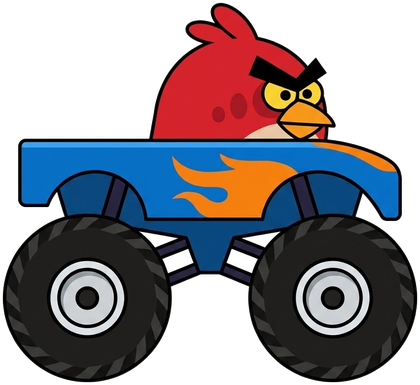
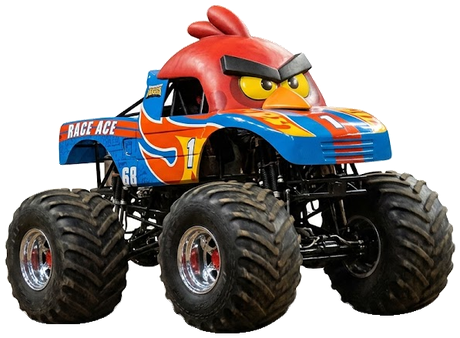
Invitados con su cara de verdad, el juego llena la pantalla y tu equipo manda
- Los invitados salen ahora de la imagen ORIGINAL, solo quitando el fondo con rembg
  (herramientas/invitados.py + recorta_fiel.py). Rayo Veloz vuelve a llevar su 95,
  las llamas, el alerón y la rueda; Race Ace es el camión de verdad; Lemi, Grizzy,
  Tomás y el Cerdi-Coche igual. Gemini los redibujaba "simplificados" y les quitaba
  la identidad; eso queda solo como modo alternativo.
- El juego LLENA la pantalla: se ajusta al ancho, el suelo pegado abajo y el cielo se
  estira; se acabaron las barras azules a los lados. Nunca recorta el tirachinas ni
  las torres (mínimo 620 px de mundo a la vista).
- Si eliges equipo en el botón de pájaros, ese equipo manda también en los 30 niveles
  (con "Vaciar" se vuelve a los pájaros que trae cada nivel).

diff --git a/index.html b/index.html
@@ -632,12 +632,18 @@ function musicaEnciende(){
 const cv = document.getElementById('c');
 let ctx = cv.getContext('2d');
 const vista = { esc:1, ox:0, oy:0 };
+const MUNDO_MIN = 620;                 // mundo que hay que ver de alto como mínimo
 function medir(){
   const r = cv.getBoundingClientRect(), dpr = Math.min(window.devicePixelRatio||1, 2);
   cv.width = Math.max(1,Math.round(r.width*dpr));
   cv.height= Math.max(1,Math.round(r.height*dpr));
-  const e = Math.min(cv.width/W, cv.height/H);
-  vista.esc = e; vista.ox = (cv.width-W*e)/2; vista.oy = (cv.height-H*e)/2;
+  // El juego llena TODA la pantalla: se ajusta al ancho y, si el alto no da,
+  // se recorta cielo por arriba (nunca el suelo, ni el tirachinas, ni las torres).
+  let e = cv.width / W;
+  if(cv.height/e < MUNDO_MIN) e = cv.height / MUNDO_MIN;
+  vista.esc = e;
+  vista.ox = (cv.width - W*e)/2;
+  vista.oy = cv.height - H*e;          // el suelo, siempre pegado abajo
 }
 window.addEventListener('resize', medir);
 function aMundo(ev){
@@ -741,9 +747,13 @@ function todosLosIds(){ return ORDEN_AVES.concat(Object.keys(EXTRA)); }
 const nubes = [{x:250,y:130,s:1.2},{x:820,y:90,s:.9},{x:1320,y:170,s:1.1},{x:1080,y:250,s:.7}];
 
 function fondo(){
-  const g = ctx.createLinearGradient(0,0,0,SUELO);
+  // el cielo se estira hasta donde haga falta para tapar toda la pantalla
+  const arriba = Math.min(0, -vista.oy/vista.esc) - 20;
+  const izq = Math.min(0, -vista.ox/vista.esc) - 20;
+  const ancho = W - izq*2;
+  const g = ctx.createLinearGradient(0,arriba,0,SUELO);
   g.addColorStop(0,'#5fb8ea'); g.addColorStop(.6,'#a8ddf5'); g.addColorStop(1,'#dff3fb');
-  ctx.fillStyle=g; ctx.fillRect(0,0,W,SUELO+4);
+  ctx.fillStyle=g; ctx.fillRect(izq,arriba,ancho,SUELO+4-arriba);
   ctx.save(); ctx.translate(1430,110);
   ctx.fillStyle='rgba(255,240,150,.35)'; ctx.beginPath(); ctx.arc(0,0,96,0,7); ctx.fill();
   ctx.fillStyle='#ffdf4d'; ctx.beginPath(); ctx.arc(0,0,58,0,7); ctx.fill();
@@ -766,13 +776,14 @@ function fondo(){
 }
 
 function suelo(){
-  ctx.fillStyle='#a06b32'; ctx.fillRect(0,SUELO,W,H-SUELO);
+  const izq = Math.min(0, -vista.ox/vista.esc) - 20, ancho = W - izq*2;
+  ctx.fillStyle='#a06b32'; ctx.fillRect(izq,SUELO,ancho,H-SUELO+400);
   ctx.fillStyle='#8a5a2b';
   for(let i=0;i<70;i++){ const x=(i*97)%W, y=SUELO+26+((i*53)%70);
     ctx.beginPath(); ctx.ellipse(x,y,13,7,0,0,7); ctx.fill(); }
-  ctx.fillStyle='#5fbe36'; ctx.fillRect(0,SUELO,W,20);
+  ctx.fillStyle='#5fbe36'; ctx.fillRect(izq,SUELO,ancho,20);
   ctx.fillStyle='#79d94c';
-  for(let x=0;x<W;x+=22){ ctx.beginPath(); ctx.moveTo(x,SUELO);
+  for(let x=izq;x<izq+ancho;x+=22){ ctx.beginPath(); ctx.moveTo(x,SUELO);
     ctx.quadraticCurveTo(x+6,SUELO-15,x+13,SUELO); ctx.fill(); }
 }
 
@@ -1720,7 +1731,9 @@ function juegaNivel(n){
   const niv = NIVELES[n-1]; if(!niv) return;
   S.nivel = n;
   S.piezas = JSON.parse(JSON.stringify(niv.piezas));
-  S.equipo = niv.equipo.filter(id=>AVES[id]||EXTRA[id]).slice(0,MAX_EQUIPO);
+  if(!S.equipoElegido || !S.equipo.length){
+    S.equipo = niv.equipo.filter(id=>AVES[id]||EXTRA[id]).slice(0,MAX_EQUIPO);
+  }
   if(!S.equipo.length) S.equipo=['rojo','rojo','rojo'];
   S.historial=[];
   S.modo='construir';                       // fuerza el rearranque limpio
@@ -1752,12 +1765,17 @@ function pintaAveEn(c,id){
     a.img.addEventListener('load', ()=>{ try{ pintaAveEn(c,id); }catch(e){} }, {once:true});
   }
 }
-function guardaEquipo(){
-  try{ localStorage.setItem('pajaros-locos-equipo', JSON.stringify(S.equipo)); }catch(e){}
+function guardaEquipo(elegido){
+  if(elegido) S.equipoElegido = true;
+  try{
+    localStorage.setItem('pajaros-locos-equipo', JSON.stringify(S.equipo));
+    localStorage.setItem('pajaros-locos-equipo-elegido', S.equipoElegido?'1':'');
+  }catch(e){}
 }
 function cargaEquipo(){
   try{ const j=JSON.parse(localStorage.getItem('pajaros-locos-equipo')||'null');
-       if(Array.isArray(j) && j.length) S.equipo=j.slice(0,MAX_EQUIPO); }catch(e){}
+       if(Array.isArray(j) && j.length) S.equipo=j.slice(0,MAX_EQUIPO);
+       S.equipoElegido = localStorage.getItem('pajaros-locos-equipo-elegido')==='1'; }catch(e){}
 }
 function pintaEquipo(){
   const e=document.getElementById('equipo'); e.innerHTML='';
@@ -1768,7 +1786,7 @@ function pintaEquipo(){
     if(id){
       b.appendChild(miniAve(id,60));
       b.title = getAve(id).nombre;
-      b.onclick=()=>{ S.equipo.splice(i,1); guardaEquipo(); pintaEquipo(); pintaListaAves(); refrescaMarcador(true); SFX.borrar(); };
+      b.onclick=()=>{ S.equipo.splice(i,1); guardaEquipo(true); pintaEquipo(); pintaListaAves(); refrescaMarcador(true); SFX.borrar(); };
     } else {
       b.textContent='+';
       b.onclick=()=>aviso('Toca un pájaro de abajo 👇');
@@ -1778,7 +1796,7 @@ function pintaEquipo(){
 }
 function añadeAve(id){
   if(S.equipo.length>=MAX_EQUIPO){ aviso('¡El tirachinas está lleno!'); SFX.borrar(); return; }
-  S.equipo.push(id); guardaEquipo(); pintaEquipo(); pintaListaAves(); refrescaMarcador(true); SFX.poner();
+  S.equipo.push(id); guardaEquipo(true); pintaEquipo(); pintaListaAves(); refrescaMarcador(true); SFX.poner();
 }
 function pintaListaAves(){
   const L=document.getElementById('listaAves'); if(!L) return;
@@ -1817,16 +1835,16 @@ document.getElementById('avesAzar').onclick=()=>{
   const ids=todosLosIds(); S.equipo=[];
   const n=Math.min(5,ids.length);
   for(let i=0;i<n;i++) S.equipo.push(ids[Math.floor(Math.random()*ids.length)]);
-  guardaEquipo(); pintaEquipo(); pintaListaAves(); refrescaMarcador(true); SFX.poner();
+  guardaEquipo(true); pintaEquipo(); pintaListaAves(); refrescaMarcador(true); SFX.poner();
 };
 document.getElementById('avesVariado').onclick=()=>{
   const ids=todosLosIds(); S.equipo=[];
   const salto=Math.max(1,Math.floor(ids.length/MAX_EQUIPO));
   for(let i=0;i<ids.length && S.equipo.length<MAX_EQUIPO;i+=salto) S.equipo.push(ids[i]);
-  guardaEquipo(); pintaEquipo(); pintaListaAves(); refrescaMarcador(true); SFX.poner();
+  guardaEquipo(true); pintaEquipo(); pintaListaAves(); refrescaMarcador(true); SFX.poner();
 };
 document.getElementById('avesVacia').onclick=()=>{
-  S.equipo=[]; guardaEquipo(); pintaEquipo(); pintaListaAves(); refrescaMarcador(true); SFX.borrar();
+  S.equipo=[]; S.equipoElegido=false; guardaEquipo(); pintaEquipo(); pintaListaAves(); refrescaMarcador(true); SFX.borrar();
 };
 
 /* ---------- invitados: los pájaros recortados que hay en pajaros/ ---------- */
@@ -2049,7 +2067,7 @@ document.getElementById('btnGuardarPajaro').onclick = ()=>{
   MI.temp=null; MI.fuente=null;
   guardaMisPajaros(); regDibujos();
   const id='dib'+(MI.lista.length-1);
-  if(S.equipo.length<MAX_EQUIPO && S.equipo.indexOf(id)<0){ S.equipo.push(id); guardaEquipo(); }
+  if(S.equipo.length<MAX_EQUIPO && S.equipo.indexOf(id)<0){ S.equipo.push(id); guardaEquipo(true); }
   pintaGaleria(); pintaEquipo(); refrescaMarcador(true);
   elPaso2.classList.add('oculto'); elPaso1.classList.remove('oculto');
   SFX.gana(); aviso('🐦 ¡Tu pájaro ya vuela!');

diff --git a/herramientas/invitados.py b/herramientas/invitados.py
@@ -1,0 +1,98 @@
+"""Convierte las imagenes de `imagenes/` en pajaros jugables.
+
+Coge el personaje ORIGINAL tal cual (nada de redibujarlo), le quita el fondo
+con rembg, lo recorta y lo apunta en `pajaros/pajaros.json`, que el juego lee
+al arrancar. O sea: los pajaros se meten solos.
+
+    python herramientas/invitados.py            # todos
+    python herramientas/invitados.py tomas      # solo uno
+"""
+
+import json
+import os
+import sys
+
+sys.path.insert(0, os.path.dirname(os.path.abspath(__file__)))
+from recorta_fiel import recorta_fiel  # noqa: E402
+
+RAIZ = os.path.dirname(os.path.dirname(os.path.abspath(__file__)))
+
+# caja = (x1,y1,x2,y2) en tanto por uno, para sacar un personaje de una lamina con varios
+# voltea = el dibujo mira a la izquierda y en el juego se vuela hacia la derecha
+INVITADOS = [
+    dict(id="tomas", nombre="Tomás", origen="imagenes/2e764147-039a-410d-9c11-e2165bb56a46.png",
+         poder="tren", r=31, dens=0.0062, pot=1.40, voltea=True),
+    dict(id="rayoveloz", nombre="Rayo Veloz", origen="imagenes/77a6012e-7d29-4644-ba35-d2a9a5e30d0f.png",
+         poder="turbo", r=30, dens=0.0058, pot=1.35, voltea=True),
+    dict(id="lemi", nombre="Lemi", origen="imagenes/b2da60d4-97fb-40ca-9334-0e6acc032bc1.png",
+         caja=(0.34, 0.28, 0.64, 0.88), poder="tropa", r=31, dens=0.0060, pot=1.20, voltea=False),
+    dict(id="grizzy", nombre="Grizzy", origen="imagenes/b2da60d4-97fb-40ca-9334-0e6acc032bc1.png",
+         caja=(0.70, 0.42, 0.94, 0.90), poder="zarpazo", r=34, dens=0.0072, pot=1.60, voltea=True),
+    dict(id="camion", nombre="Race Ace", origen="imagenes/53004e2e-0c62-447f-bd5a-ac64115b2cea.jpg",
+         poder="ruedas", r=38, dens=0.0085, pot=2.00, voltea=True),
+    dict(id="cerdicoche", nombre="Cerdi-Coche", origen="imagenes/2d2d3444-f818-48f1-8f9a-73e9a64aac82.png",
+         poder="ruedas", r=40, dens=0.0080, pot=1.80, voltea=False, cerdo=True),
+]
+
+MANIFIESTO = os.path.join(RAIZ, "pajaros", "pajaros.json")
+
+
+def manifiesto():
+    try:
+        with open(MANIFIESTO, encoding="utf-8") as f:
+            j = json.load(f)
+        if not isinstance(j.get("pajaros"), list):
+            j["pajaros"] = []
+        return j
+    except Exception:
+        return {"version": 1, "pajaros": []}
+
+
+def apunta(inv, tam):
+    j = manifiesto()
+    fila = {
+        "id": inv["id"],
+        "nombre": inv["nombre"],
+        "serie": inv.get("serie", "Invitados"),
+        "archivo": f"{inv['id']}.png",
+        "poder": inv["poder"],
+        "r": inv.get("r", 30),
+        "dens": inv.get("dens", 0.005),
+        "pot": inv.get("pot", 1),
+        "cerdo": bool(inv.get("cerdo")),
+        "voltea": bool(inv.get("voltea")),
+        "ancho": tam[0],
+        "alto": tam[1],
+    }
+    for i, p in enumerate(j["pajaros"]):
+        if p.get("id") == fila["id"]:
+            j["pajaros"][i] = fila
+            break
+    else:
+        j["pajaros"].append(fila)
+    os.makedirs(os.path.dirname(MANIFIESTO), exist_ok=True)
+    with open(MANIFIESTO, "w", encoding="utf-8") as f:
+        json.dump(j, f, ensure_ascii=False, indent=2)
+        f.write("\n")
+    return fila
+
+
+def main():
+    quiero = set(a for a in sys.argv[1:] if not a.startswith("-"))
+    os.makedirs(os.path.join(RAIZ, "pajaros"), exist_ok=True)
+    for inv in INVITADOS:
+        if quiero and inv["id"] not in quiero:
+            continue
+        entrada = os.path.join(RAIZ, inv["origen"])
+        salida = os.path.join(RAIZ, "pajaros", f"{inv['id']}.png")
+        if not os.path.exists(entrada):
+            print(f"[falta] {inv['id']}: no encuentro {inv['origen']}")
+            continue
+        tam = recorta_fiel(entrada, salida, caja=inv.get("caja"), lado=460)
+        fila = apunta(inv, tam)
+        print(f"[ok] {fila['nombre']} -> pajaros/{fila['archivo']} ({tam[0]}x{tam[1]}) poder={fila['poder']}")
+    print("[fin] pajaros/pajaros.json actualizado")
+
+
+if __name__ == "__main__":
+    main()

diff --git a/herramientas/recorta_fiel.py b/herramientas/recorta_fiel.py
@@ -1,0 +1,106 @@
+"""Recorta el personaje de una imagen ORIGINAL y le quita el fondo, sin redibujar nada.
+
+Usa rembg (U2Net) sobre la foto original, asi el personaje queda EXACTAMENTE
+como estaba -sus colores, su decoracion, su pose- solo que sin fondo.
+
+    python herramientas/recorta_fiel.py entrada.png salida.png
+    python herramientas/recorta_fiel.py poster.png salida.png --caja 0.33,0.29,0.63,0.87
+        (--caja x1,y1,x2,y2 en tanto por uno: para sacar UN personaje de una lamina con varios)
+"""
+
+import sys
+
+from PIL import Image
+
+try:
+    from rembg import remove, new_session
+except ImportError:  # pragma: no cover
+    raise SystemExit("Falta rembg: pip install rembg")
+
+_SESION = None
+
+
+def sesion():
+    global _SESION
+    if _SESION is None:
+        _SESION = new_session("u2net")
+    return _SESION
+
+
+def recorta_fiel(entrada, salida, caja=None, lado=460, pad=6, alpha_min=12):
+    im = Image.open(entrada).convert("RGBA")
+
+    if caja:
+        w, h = im.size
+        x1, y1, x2, y2 = caja
+        im = im.crop((int(x1 * w), int(y1 * h), int(x2 * w), int(y2 * h)))
+
+    # quitar fondo respetando el dibujo original
+    fuera = remove(im, session=sesion(), post_process_mask=True)
+
+    # limpiar restos semitransparentes del borde
+    px = fuera.load()
+    w, h = fuera.size
+    for y in range(h):
+        for x in range(w):
+            r, g, b, a = px[x, y]
+            if a < alpha_min:
+                px[x, y] = (r, g, b, 0)
+
+    # quedarse solo con la mancha grande (fuera trocitos sueltos del fondo)
+    fuera = _mancha_principal(fuera)
+
+    caja_util = fuera.getbbox()
+    if caja_util is None:
+        raise SystemExit("No ha quedado nada: revisa la caja o la imagen")
+    x1, y1, x2, y2 = caja_util
+    fuera = fuera.crop(
+        (max(0, x1 - pad), max(0, y1 - pad), min(w, x2 + pad), min(h, y2 + pad))
+    )
+
+    k = min(lado / fuera.width, lado / fuera.height, 1.0)
+    if k < 1.0:
+        fuera = fuera.resize(
+            (max(1, int(fuera.width * k)), max(1, int(fuera.height * k))), Image.LANCZOS
+        )
+
+    fuera.save(salida, "PNG")
+    print(f"{salida} {fuera.width}x{fuera.height}")
+    return fuera.size
+
+
+def _mancha_principal(im, minimo=0.02):
+    """Deja la region opaca mas grande y borra las islas pequenas."""
+    import numpy as np
+    import cv2
+
+    a = np.array(im)
+    mascara = (a[:, :, 3] > 8).astype("uint8")
+    n, etiquetas, stats, _ = cv2.connectedComponentsWithStats(mascara, 8)
+    if n <= 2:
+        return im
+    areas = stats[1:, cv2.CC_STAT_AREA]
+    mayor = 1 + int(areas.argmax())
+    umbral = areas.max() * minimo
+    buenas = {mayor}
+    for i in range(1, n):
+        if stats[i, cv2.CC_STAT_AREA] >= umbral:
+            buenas.add(i)
+    quita = ~np.isin(etiquetas, list(buenas))
+    a[quita, 3] = 0
+    return Image.fromarray(a)
+
+
+if __name__ == "__main__":
+    args = sys.argv[1:]
+    if len(args) < 2:
+        raise SystemExit(__doc__)
+    entrada, salida = args[0], args[1]
+    caja = None
+    lado = 460
+    for i, x in enumerate(args):
+        if x == "--caja":
+            caja = tuple(float(v) for v in args[i + 1].split(","))
+        elif x == "--lado":
+            lado = int(args[i + 1])
+    recorta_fiel(entrada, salida, caja=caja, lado=lado)

diff --git a/README.md b/README.md
@@ -88,7 +88,21 @@ echo '{"desc":"pájaro astronauta","poder":"turbo"}' | node herramientas/crear-p
 
 Hace falta tener el CLI `codex` instalado y con la sesión iniciada.
 
-### 2. Recortar personajes de una imagen con Gemini
+### 2. Meter personajes de una foto (los invitados)
+
+Los invitados salen de las imágenes de `imagenes/` **tal cual son**, solo quitándoles el
+fondo con `rembg` (nada de redibujarlos: conservan sus colores, su decoración y su pose).
+
+```bash
+python herramientas/invitados.py            # todos
+python herramientas/invitados.py tomas      # solo uno
+```
+
+De una lámina con varios personajes se saca cada uno con su caja (`caja=(x1,y1,x2,y2)`
+en tanto por uno, en `INVITADOS`). El script deja el PNG en `pajaros/` y lo apunta en el
+manifiesto con su poder, su tamaño y si hay que voltearlo para que mire a la derecha.
+
+### 3. Recortar personajes de una imagen con Gemini (versión simplificada)
 
 Para convertir una imagen de `imagenes/` en un pájaro jugable se usa el mismo truco que
 en *libros jorge*: el relay CDP contra el Chrome del usuario (su perfil, su sesión) y una
